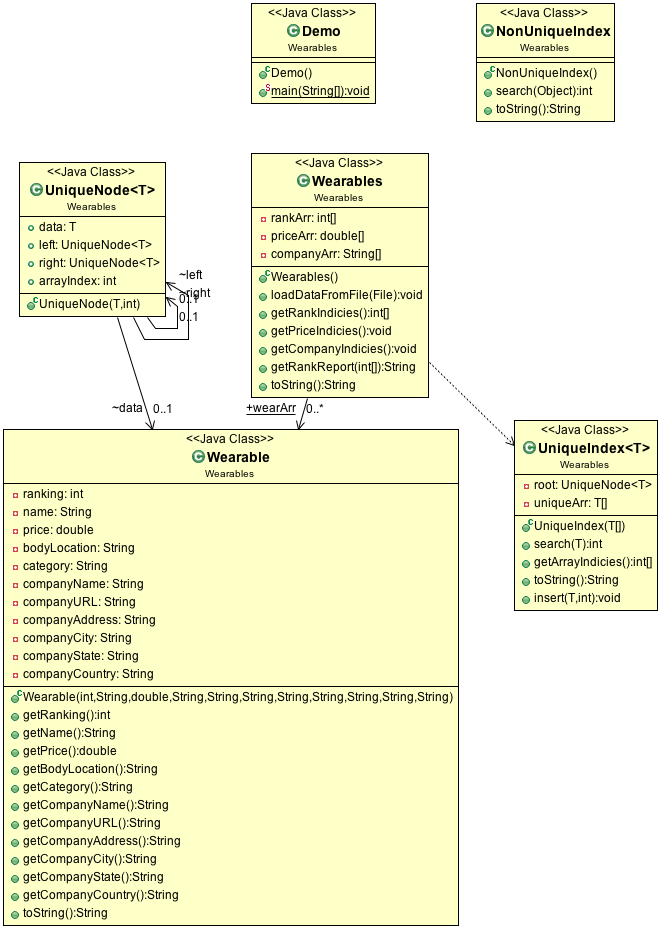
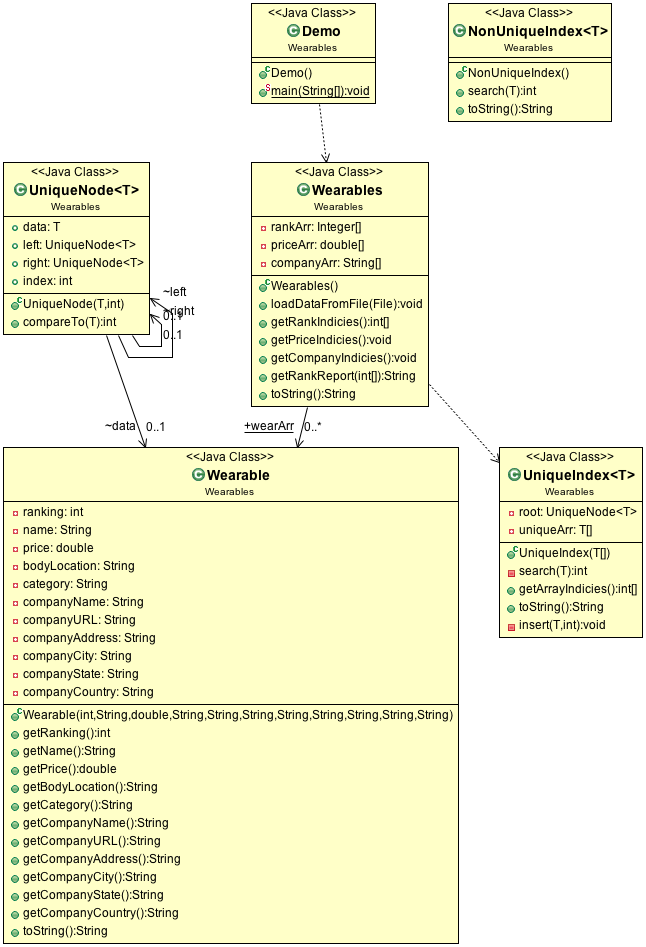
got comparable working with proj5

diff --git a/src/Wearables/UniqueIndex.java b/src/Wearables/UniqueIndex.java
@@ -1,8 +1,8 @@
 package Wearables;
 
-public class UniqueIndex<T> implements Index<T> {
-	private  UniqueNode<T> root;
-	private  T[] uniqueArr;
+public class UniqueIndex<T extends Comparable<T>> {
+	private UniqueNode<T> root;
+	private T[] uniqueArr;
 	
 	public UniqueIndex(T[] rankingsArr) {
 		this.root = null;
@@ -12,13 +12,14 @@ public class UniqueIndex<T> implements Index<T> {
 		}
 	}
 
-	@Override
-	public int search(T rank) {
+	private int search(T t) {
 		UniqueNode<T> current = root;
+		int compareResult = current.data.compareTo(t);
 		while(current!=null){
-			if(current.data==rank){
-				return current.arrayIndex;
-			}else if(current.data > rank){
+			if(current.data==t){
+				return current.index;
+			}else if(compareResult == -1){
+				System.out.println(t.toString() + "going to the left");
 				current = current.left;
 			}else{
 				current = current.right;
@@ -43,23 +44,26 @@ public class UniqueIndex<T> implements Index<T> {
 
 	
 	
-	public void insert(T rank, int pos){
-		UniqueNode<T> newNode = new UniqueNode<T>(rank, pos);
+	private void insert(T t, int pos){
+		UniqueNode<T> newNode = new UniqueNode<T>(t, pos);
 		if(root==null){
 			root = newNode;
 			return;
 		}
 		UniqueNode<T> current = root;
 		UniqueNode<T> parent = null;
+		int compareResult = current.data.compareTo(t);
 		while(true){
 			parent = current;
-			if(rank < current.data){
+			if(compareResult == -1){
+				System.out.println(t.toString() + "going to the left");
 				current = current.left;
 				if(current == null){
 					parent.left = newNode;
 					return;
 				}
 			} else {
+				System.out.println(t.toString() + "going to the right");
 				current = current.right;
 				if(current == null){
 					parent.right = newNode;

diff --git a/src/Wearables/UniqueNode.java b/src/Wearables/UniqueNode.java
@@ -1,18 +1,22 @@
 package Wearables;
 
-public class UniqueNode<T> {
+public class UniqueNode<T extends Comparable<T>> {
 		public T data;
 		public UniqueNode<T> left;
 		public UniqueNode<T> right;
-		public int arrayIndex;
+		public int index;
 		
 		public UniqueNode(T rankingsArr, int idx){
 			this.data = rankingsArr;
-			this.arrayIndex = idx;
+			this.index = idx;
 			left = null;
 			right = null;
 			
 		}
-
-
+		
+		public int compareTo(T that) {
+	        String temp1 = this.toString();
+	        String temp2 = that.toString();
+	        return temp1.compareTo(temp2);
+		}
 	}

diff --git a/src/Wearables/Wearables.java b/src/Wearables/Wearables.java
@@ -9,7 +9,7 @@ import java.io.IOException;
 public class Wearables {
 
 	private Wearable[] wearArr;
-	private int[] rankArr;
+	private Integer[] rankArr;
 	private double[] priceArr;
 	private String[] companyArr;
 	
@@ -26,7 +26,7 @@ public class Wearables {
 		    int pos = 0;
 		    // initialize arrays
 		    wearArr = new Wearable[size];
-		    rankArr = new int[size];
+		    rankArr = new Integer[size];
 		    priceArr = new double[size];
 		    companyArr = new String[size];
 			while ((line = br.readLine()) != null){

diff --git a/src/Wearables/NonUniqueIndex.java b/src/Wearables/NonUniqueIndex.java
@@ -1,18 +1,16 @@
 package Wearables;
 
-public class NonUniqueIndex implements Index {
+public class NonUniqueIndex<T> {
 
 	public NonUniqueIndex() {
 		// TODO Auto-generated constructor stub
 	}
 
-	@Override
-	public int search(Object o) {
+	public int search(T t) {
 		// TODO Auto-generated method stub
 		return 0;
 	}
 
-	@Override
 	public String toString() {
 		// TODO Auto-generated method stub
 		return null;

diff --git a/src/Wearables/Demo.java b/src/Wearables/Demo.java
@@ -19,6 +19,7 @@ public class Demo {
     	
     	//System.out.println(myWearables.toString());
     	int[] myIntArr = myWearables.getRankIndicies();
+    	//myWearables.getRankReport(myIntArr);
     	System.out.println(myWearables.getRankReport(myIntArr));
 	}
 }

diff --git a/src/Wearables/DupeNode.java b/src/Wearables/DupeNode.java
@@ -2,9 +2,11 @@ package Wearables;
 
 public class DupeNode {
 		public DupeNode u;
+		public int index;
 		
-		public DupeNode(){
+		public DupeNode(int idx){
 			this.u = this;
+			this.index = idx;
 		}
 
 	}
